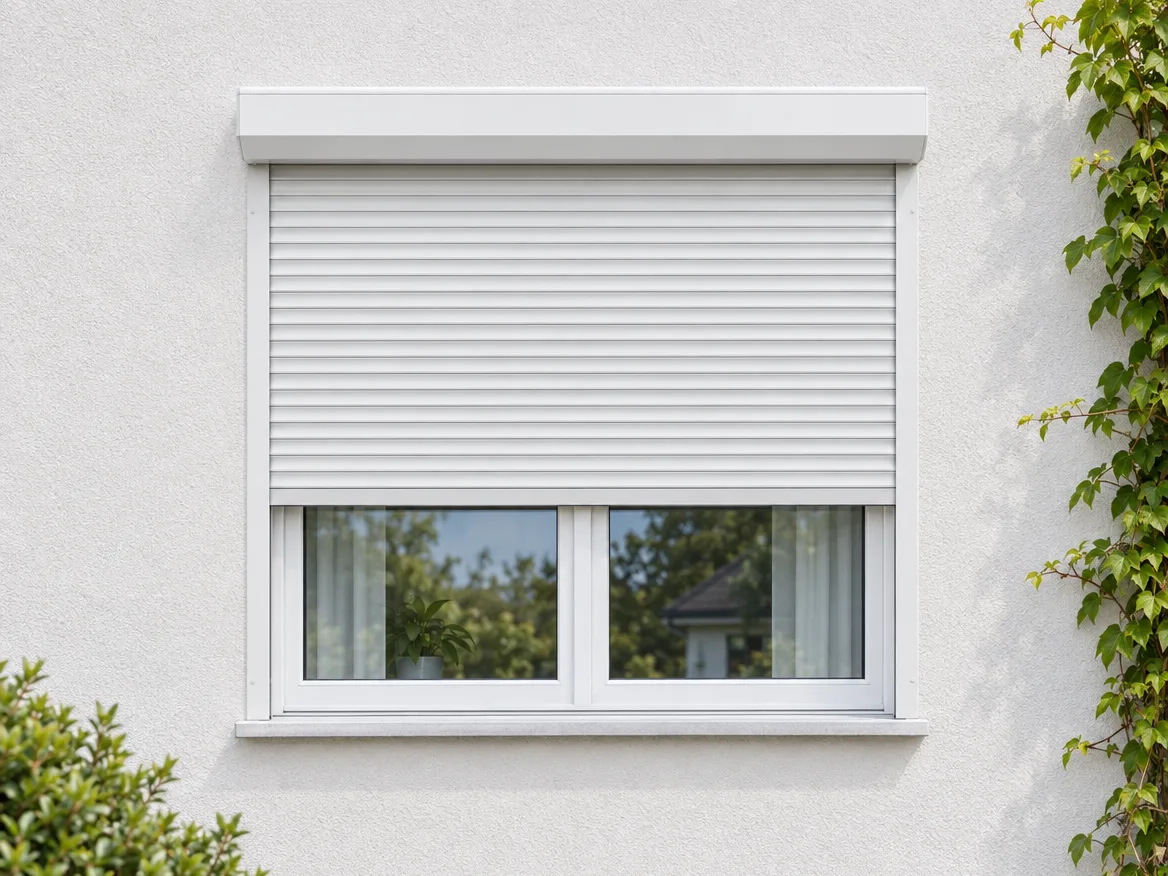
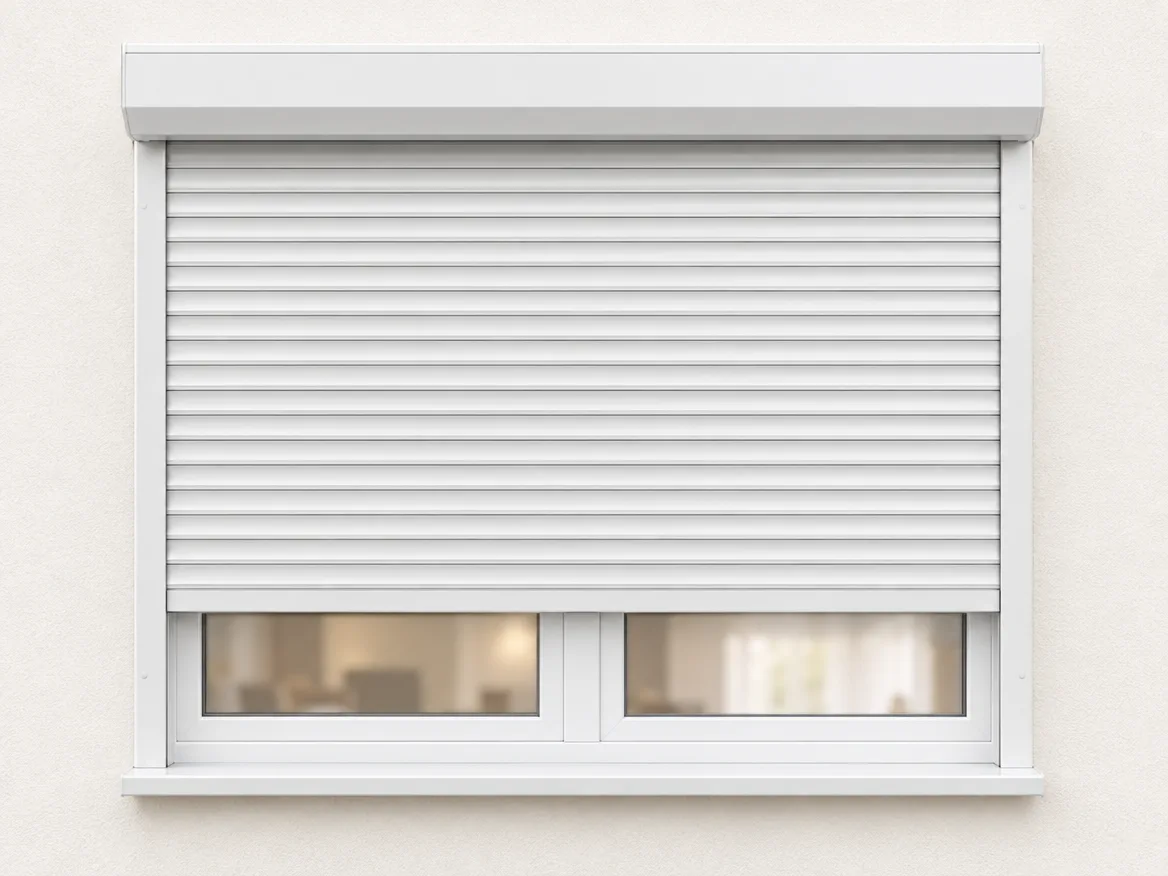
Kachelbilder als einheitliche Produkt-Nahaufnahmen (Sarah: weniger Garten, mehr Produkt)
Alle 7 Produktkacheln neu: Produkt füllt das Bild, frontal, heller Rand, gleiches Licht.
Higgsfield gpt_image_2_5 high aus den eigenen Produktbildern, KI-Symbolbild an jeder Kachel.

diff --git a/index.html b/index.html
@@ -629,7 +629,7 @@
   <div class="df-wrap">
     <div class="abschnitt__kopf"><p class="abschnitt__ueber">Sortiment</p><h2 class="abschnitt__titel" id="sortiment-titel">Fenster und Türen nach Maß.</h2><p class="abschnitt__einleitung">Wählen Sie Ihr Produkt. Im Konfigurator sehen Sie zu jeder Auswahl sofort den Preis.</p></div>
     <ul class="raster raster--4"><li><article class="kachel kachel--szene">
-  <a class="kachel__bild" href="/konfigurator.html?prod=fenster&amp;material=kunststoff" tabindex="-1" aria-hidden="true"><img src="/img/produkte/szene/kunststoff-640.webp" srcset="/img/produkte/szene/kunststoff-640.webp 640w, /img/produkte/szene/kunststoff.webp 1168w" sizes="(max-width: 600px) 100vw, (max-width: 1100px) 50vw, 300px" alt="Kunststofffenster in Weiß, eingebaut in einem hellen Wohnzimmer (KI-generiertes Symbolbild)" width="640" height="480" loading="lazy" decoding="async"><span class="ki-hinweis">KI-Symbolbild</span></a>
+  <a class="kachel__bild" href="/konfigurator.html?prod=fenster&amp;material=kunststoff" tabindex="-1" aria-hidden="true"><img src="/img/produkte/szene/kunststoff-640.webp" srcset="/img/produkte/szene/kunststoff-640.webp 640w, /img/produkte/szene/kunststoff.webp 1168w" sizes="(max-width: 600px) 100vw, (max-width: 1100px) 50vw, 300px" alt="Weißes Kunststofffenster, zweiflügelig, eingebaut (KI-generiertes Symbolbild)" width="640" height="480" loading="lazy" decoding="async"><span class="ki-hinweis">KI-Symbolbild</span></a>
   <div class="kachel__text">
     <h3 class="kachel__titel"><a href="/produkte.html">Kunststofffenster</a></h3>
     <p class="kachel__unter">Drutex IGLO 5 Classic, IGLO Energy, IGLO EDGE</p>
@@ -639,7 +639,7 @@
   </div>
 </article></li>
 <li><article class="kachel kachel--szene">
-  <a class="kachel__bild" href="/konfigurator.html?prod=fenster&amp;material=holz" tabindex="-1" aria-hidden="true"><img src="/img/produkte/szene/holz-640.webp" srcset="/img/produkte/szene/holz-640.webp 640w, /img/produkte/szene/holz.webp 1168w" sizes="(max-width: 600px) 100vw, (max-width: 1100px) 50vw, 300px" alt="Holzfenster, eingebaut in einer Küche (KI-generiertes Symbolbild)" width="640" height="480" loading="lazy" decoding="async"><span class="ki-hinweis">KI-Symbolbild</span></a>
+  <a class="kachel__bild" href="/konfigurator.html?prod=fenster&amp;material=holz" tabindex="-1" aria-hidden="true"><img src="/img/produkte/szene/holz-640.webp" srcset="/img/produkte/szene/holz-640.webp 640w, /img/produkte/szene/holz.webp 1168w" sizes="(max-width: 600px) 100vw, (max-width: 1100px) 50vw, 300px" alt="Holzfenster, eingebaut (KI-generiertes Symbolbild)" width="640" height="480" loading="lazy" decoding="async"><span class="ki-hinweis">KI-Symbolbild</span></a>
   <div class="kachel__text">
     <h3 class="kachel__titel"><a href="/holzfenster.html">Holzfenster</a></h3>
     <p class="kachel__unter">Drutex Softline, Vollholz</p>
@@ -649,7 +649,7 @@
   </div>
 </article></li>
 <li><article class="kachel kachel--szene">
-  <a class="kachel__bild" href="/konfigurator.html?prod=fenster&amp;material=alu" tabindex="-1" aria-hidden="true"><img src="/img/produkte/szene/alu-640.webp" srcset="/img/produkte/szene/alu-640.webp 640w, /img/produkte/szene/alu.webp 1168w" sizes="(max-width: 600px) 100vw, (max-width: 1100px) 50vw, 300px" alt="Aluminiumfenster in Anthrazit, eingebaut in einem Wohnzimmer (KI-generiertes Symbolbild)" width="640" height="480" loading="lazy" decoding="async"><span class="ki-hinweis">KI-Symbolbild</span></a>
+  <a class="kachel__bild" href="/konfigurator.html?prod=fenster&amp;material=alu" tabindex="-1" aria-hidden="true"><img src="/img/produkte/szene/alu-640.webp" srcset="/img/produkte/szene/alu-640.webp 640w, /img/produkte/szene/alu.webp 1168w" sizes="(max-width: 600px) 100vw, (max-width: 1100px) 50vw, 300px" alt="Aluminiumfenster in Anthrazit, eingebaut (KI-generiertes Symbolbild)" width="640" height="480" loading="lazy" decoding="async"><span class="ki-hinweis">KI-Symbolbild</span></a>
   <div class="kachel__text">
     <h3 class="kachel__titel"><a href="/aluminiumfenster.html">Aluminiumfenster</a></h3>
     <p class="kachel__unter">Drutex MB-Systeme</p>
@@ -659,7 +659,7 @@
   </div>
 </article></li>
 <li><article class="kachel kachel--szene">
-  <a class="kachel__bild" href="/konfigurator.html?prod=balkon" tabindex="-1" aria-hidden="true"><img src="/img/produkte/szene/balkon-640.webp" srcset="/img/produkte/szene/balkon-640.webp 640w, /img/produkte/szene/balkon.webp 1168w" sizes="(max-width: 600px) 100vw, (max-width: 1100px) 50vw, 300px" alt="Balkontür in Weiß, eingebaut in einem Schlafzimmer (KI-generiertes Symbolbild)" width="640" height="480" loading="lazy" decoding="async"><span class="ki-hinweis">KI-Symbolbild</span></a>
+  <a class="kachel__bild" href="/konfigurator.html?prod=balkon" tabindex="-1" aria-hidden="true"><img src="/img/produkte/szene/balkon-640.webp" srcset="/img/produkte/szene/balkon-640.webp 640w, /img/produkte/szene/balkon.webp 1168w" sizes="(max-width: 600px) 100vw, (max-width: 1100px) 50vw, 300px" alt="Weiße Balkontür, eingebaut (KI-generiertes Symbolbild)" width="640" height="480" loading="lazy" decoding="async"><span class="ki-hinweis">KI-Symbolbild</span></a>
   <div class="kachel__text">
     <h3 class="kachel__titel"><a href="/balkontueren.html">Balkontüren</a></h3>
     <p class="kachel__unter">Dreh-Kipp, ein- oder zweiflügelig</p>
@@ -669,7 +669,7 @@
   </div>
 </article></li>
 <li><article class="kachel kachel--szene">
-  <a class="kachel__bild" href="/konfigurator.html?prod=schiebe" tabindex="-1" aria-hidden="true"><img src="/img/produkte/szene/schiebe-640.webp" srcset="/img/produkte/szene/schiebe-640.webp 640w, /img/produkte/szene/schiebe.webp 1168w" sizes="(max-width: 600px) 100vw, (max-width: 1100px) 50vw, 300px" alt="Hebe-Schiebetür in Weiß zur Terrasse (KI-generiertes Symbolbild)" width="640" height="480" loading="lazy" decoding="async"><span class="ki-hinweis">KI-Symbolbild</span></a>
+  <a class="kachel__bild" href="/konfigurator.html?prod=schiebe" tabindex="-1" aria-hidden="true"><img src="/img/produkte/szene/schiebe-640.webp" srcset="/img/produkte/szene/schiebe-640.webp 640w, /img/produkte/szene/schiebe.webp 1168w" sizes="(max-width: 600px) 100vw, (max-width: 1100px) 50vw, 300px" alt="Weiße Schiebetür zur Terrasse (KI-generiertes Symbolbild)" width="640" height="480" loading="lazy" decoding="async"><span class="ki-hinweis">KI-Symbolbild</span></a>
   <div class="kachel__text">
     <h3 class="kachel__titel"><a href="/schiebetueren.html">Schiebetüren</a></h3>
     <p class="kachel__unter">Drutex PSK und Hebe-Schiebe</p>
@@ -679,7 +679,7 @@
   </div>
 </article></li>
 <li><article class="kachel kachel--szene">
-  <a class="kachel__bild" href="/konfigurator.html?prod=haustuer" tabindex="-1" aria-hidden="true"><img src="/img/produkte/szene/haustuer-640.webp" srcset="/img/produkte/szene/haustuer-640.webp 640w, /img/produkte/szene/haustuer.webp 1168w" sizes="(max-width: 600px) 100vw, (max-width: 1100px) 50vw, 300px" alt="Haustür in Anthrazit mit Glasstreifen und Stangengriff am Hauseingang (KI-generiertes Symbolbild)" width="640" height="480" loading="lazy" decoding="async"><span class="ki-hinweis">KI-Symbolbild</span></a>
+  <a class="kachel__bild" href="/konfigurator.html?prod=haustuer" tabindex="-1" aria-hidden="true"><img src="/img/produkte/szene/haustuer-640.webp" srcset="/img/produkte/szene/haustuer-640.webp 640w, /img/produkte/szene/haustuer.webp 1168w" sizes="(max-width: 600px) 100vw, (max-width: 1100px) 50vw, 300px" alt="Haustür in Anthrazit mit Glasstreifen und Stangengriff (KI-generiertes Symbolbild)" width="640" height="480" loading="lazy" decoding="async"><span class="ki-hinweis">KI-Symbolbild</span></a>
   <div class="kachel__text">
     <h3 class="kachel__titel"><a href="/haustueren.html">Haustüren</a></h3>
     <p class="kachel__unter">Drutex IGLO 5 Classic und IGLO Energy</p>
@@ -689,7 +689,7 @@
   </div>
 </article></li>
 <li><article class="kachel kachel--szene">
-  <a class="kachel__bild" href="/konfigurator.html?prod=rollladen" tabindex="-1" aria-hidden="true"><img src="/img/produkte/szene/rollladen-640.webp" srcset="/img/produkte/szene/rollladen-640.webp 640w, /img/produkte/szene/rollladen.webp 1168w" sizes="(max-width: 600px) 100vw, (max-width: 1100px) 50vw, 300px" alt="Vorbau-Rollladen in Weiß an einer Hausfassade (KI-generiertes Symbolbild)" width="640" height="480" loading="lazy" decoding="async"><span class="ki-hinweis">KI-Symbolbild</span></a>
+  <a class="kachel__bild" href="/konfigurator.html?prod=rollladen" tabindex="-1" aria-hidden="true"><img src="/img/produkte/szene/rollladen-640.webp" srcset="/img/produkte/szene/rollladen-640.webp 640w, /img/produkte/szene/rollladen.webp 1168w" sizes="(max-width: 600px) 100vw, (max-width: 1100px) 50vw, 300px" alt="Weißer Vorbau-Rollladen über einem Fenster (KI-generiertes Symbolbild)" width="640" height="480" loading="lazy" decoding="async"><span class="ki-hinweis">KI-Symbolbild</span></a>
   <div class="kachel__text">
     <h3 class="kachel__titel"><a href="/rollladen.html">Rollläden</a></h3>
     <p class="kachel__unter">Vorsatz- und Aufsatzrollladen</p>
